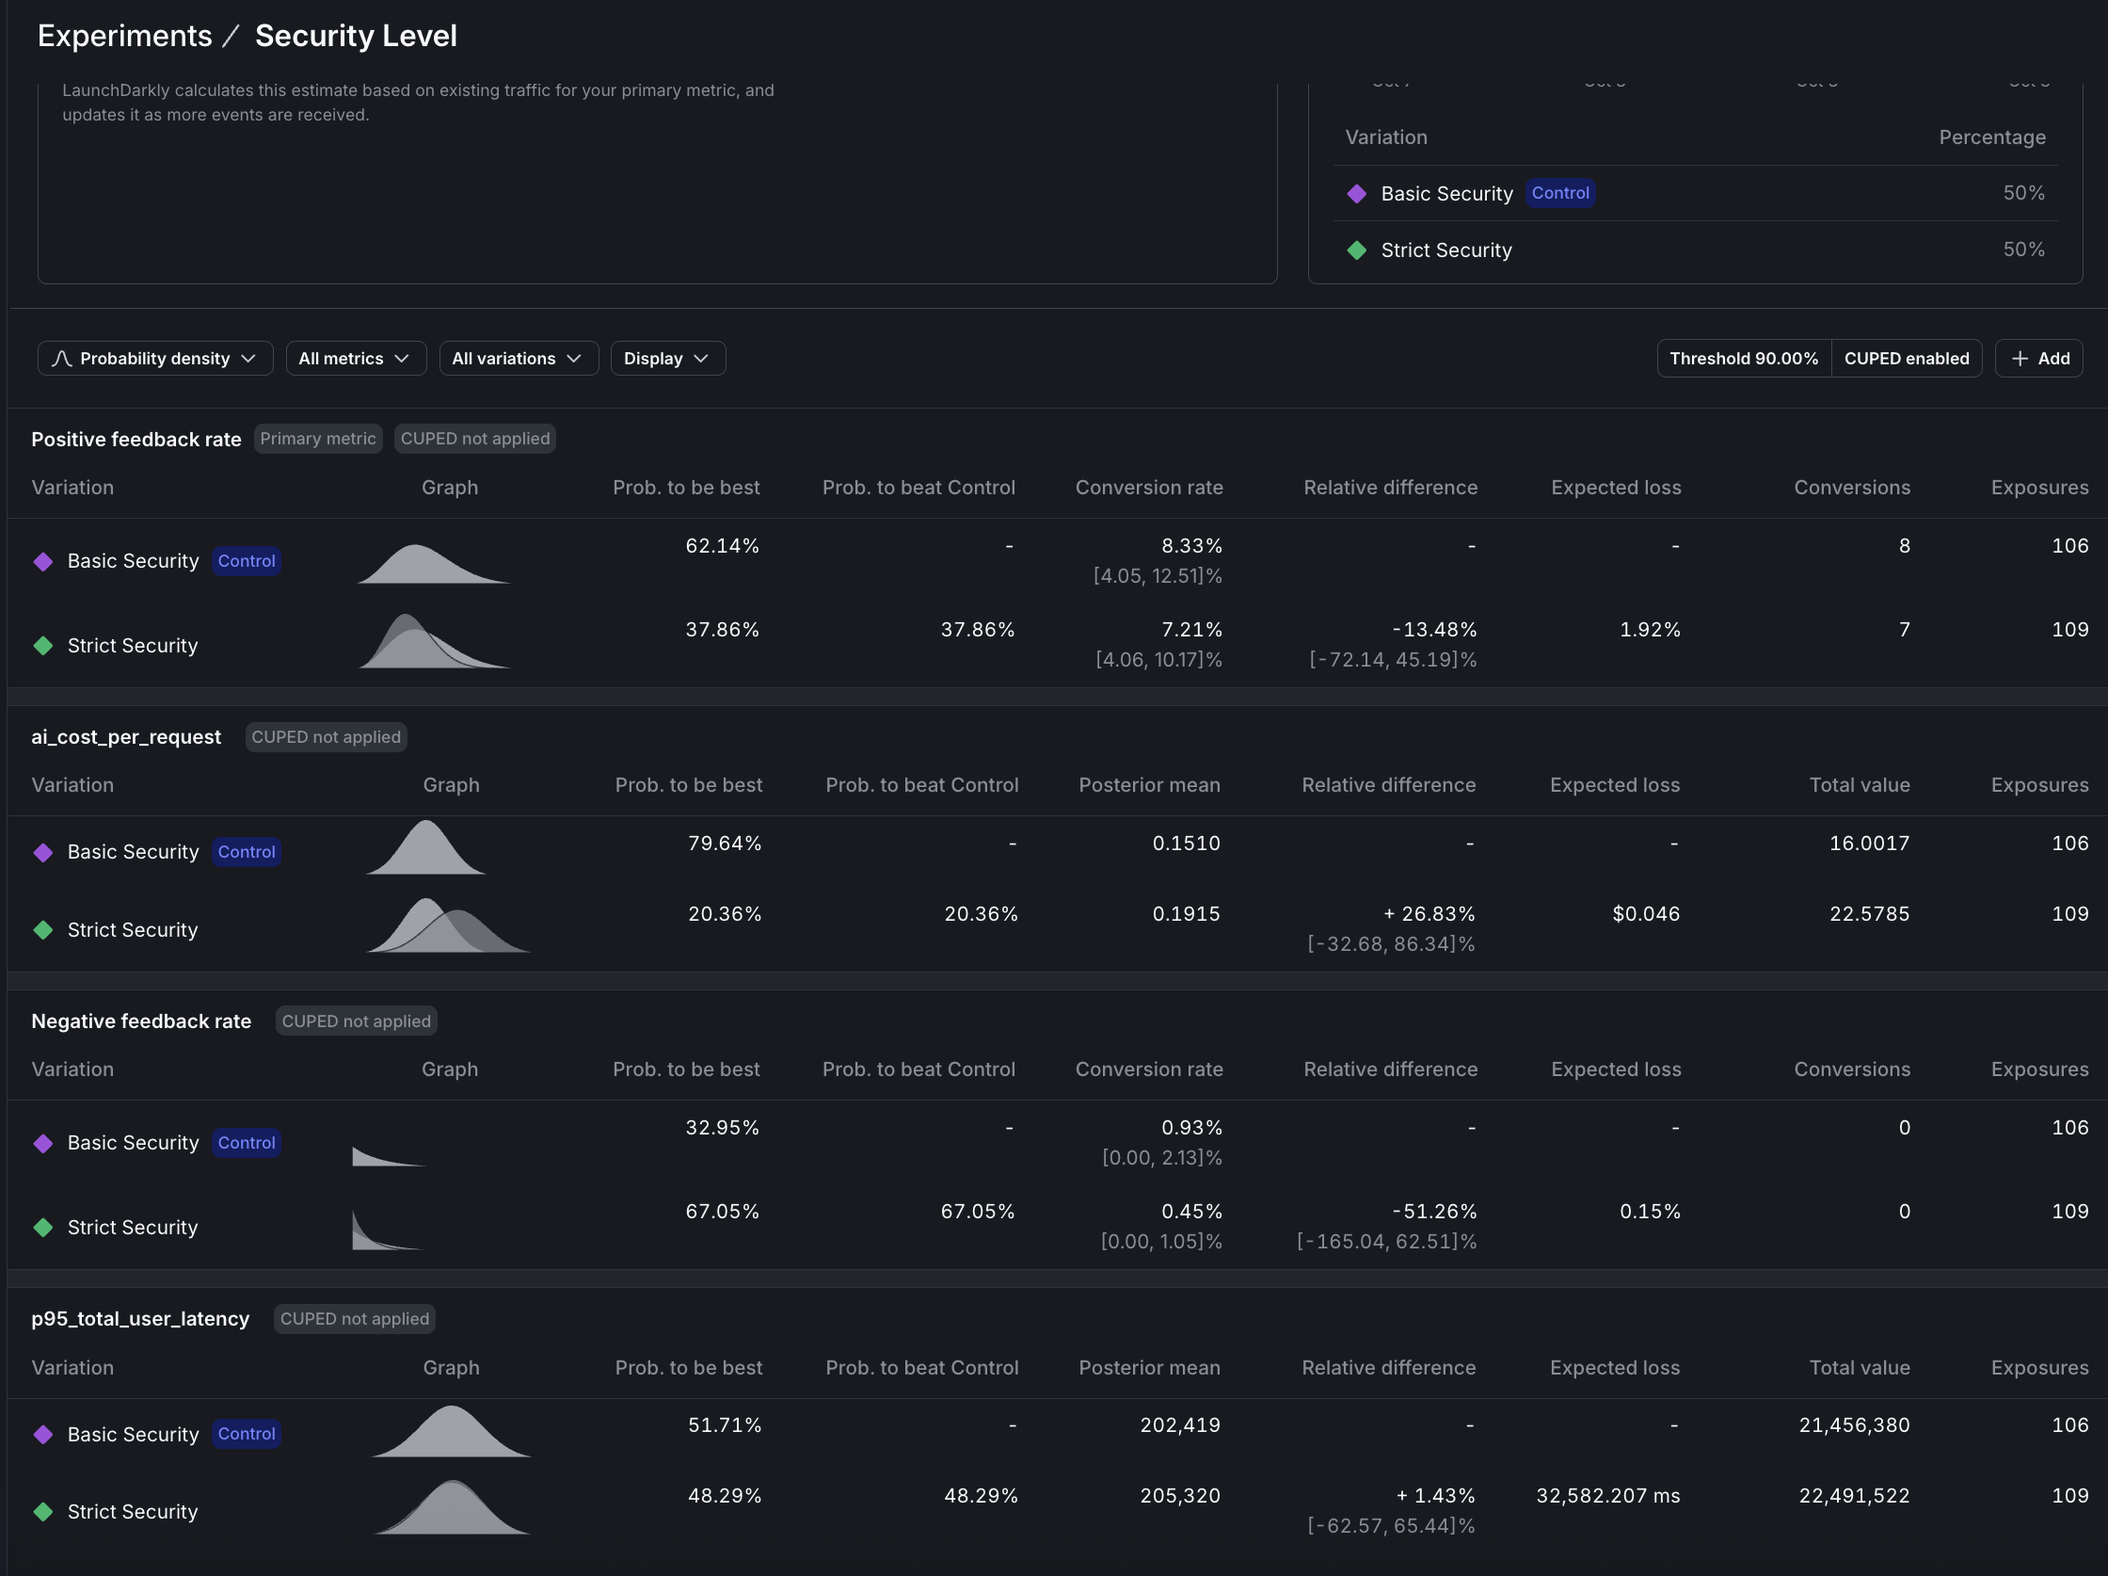
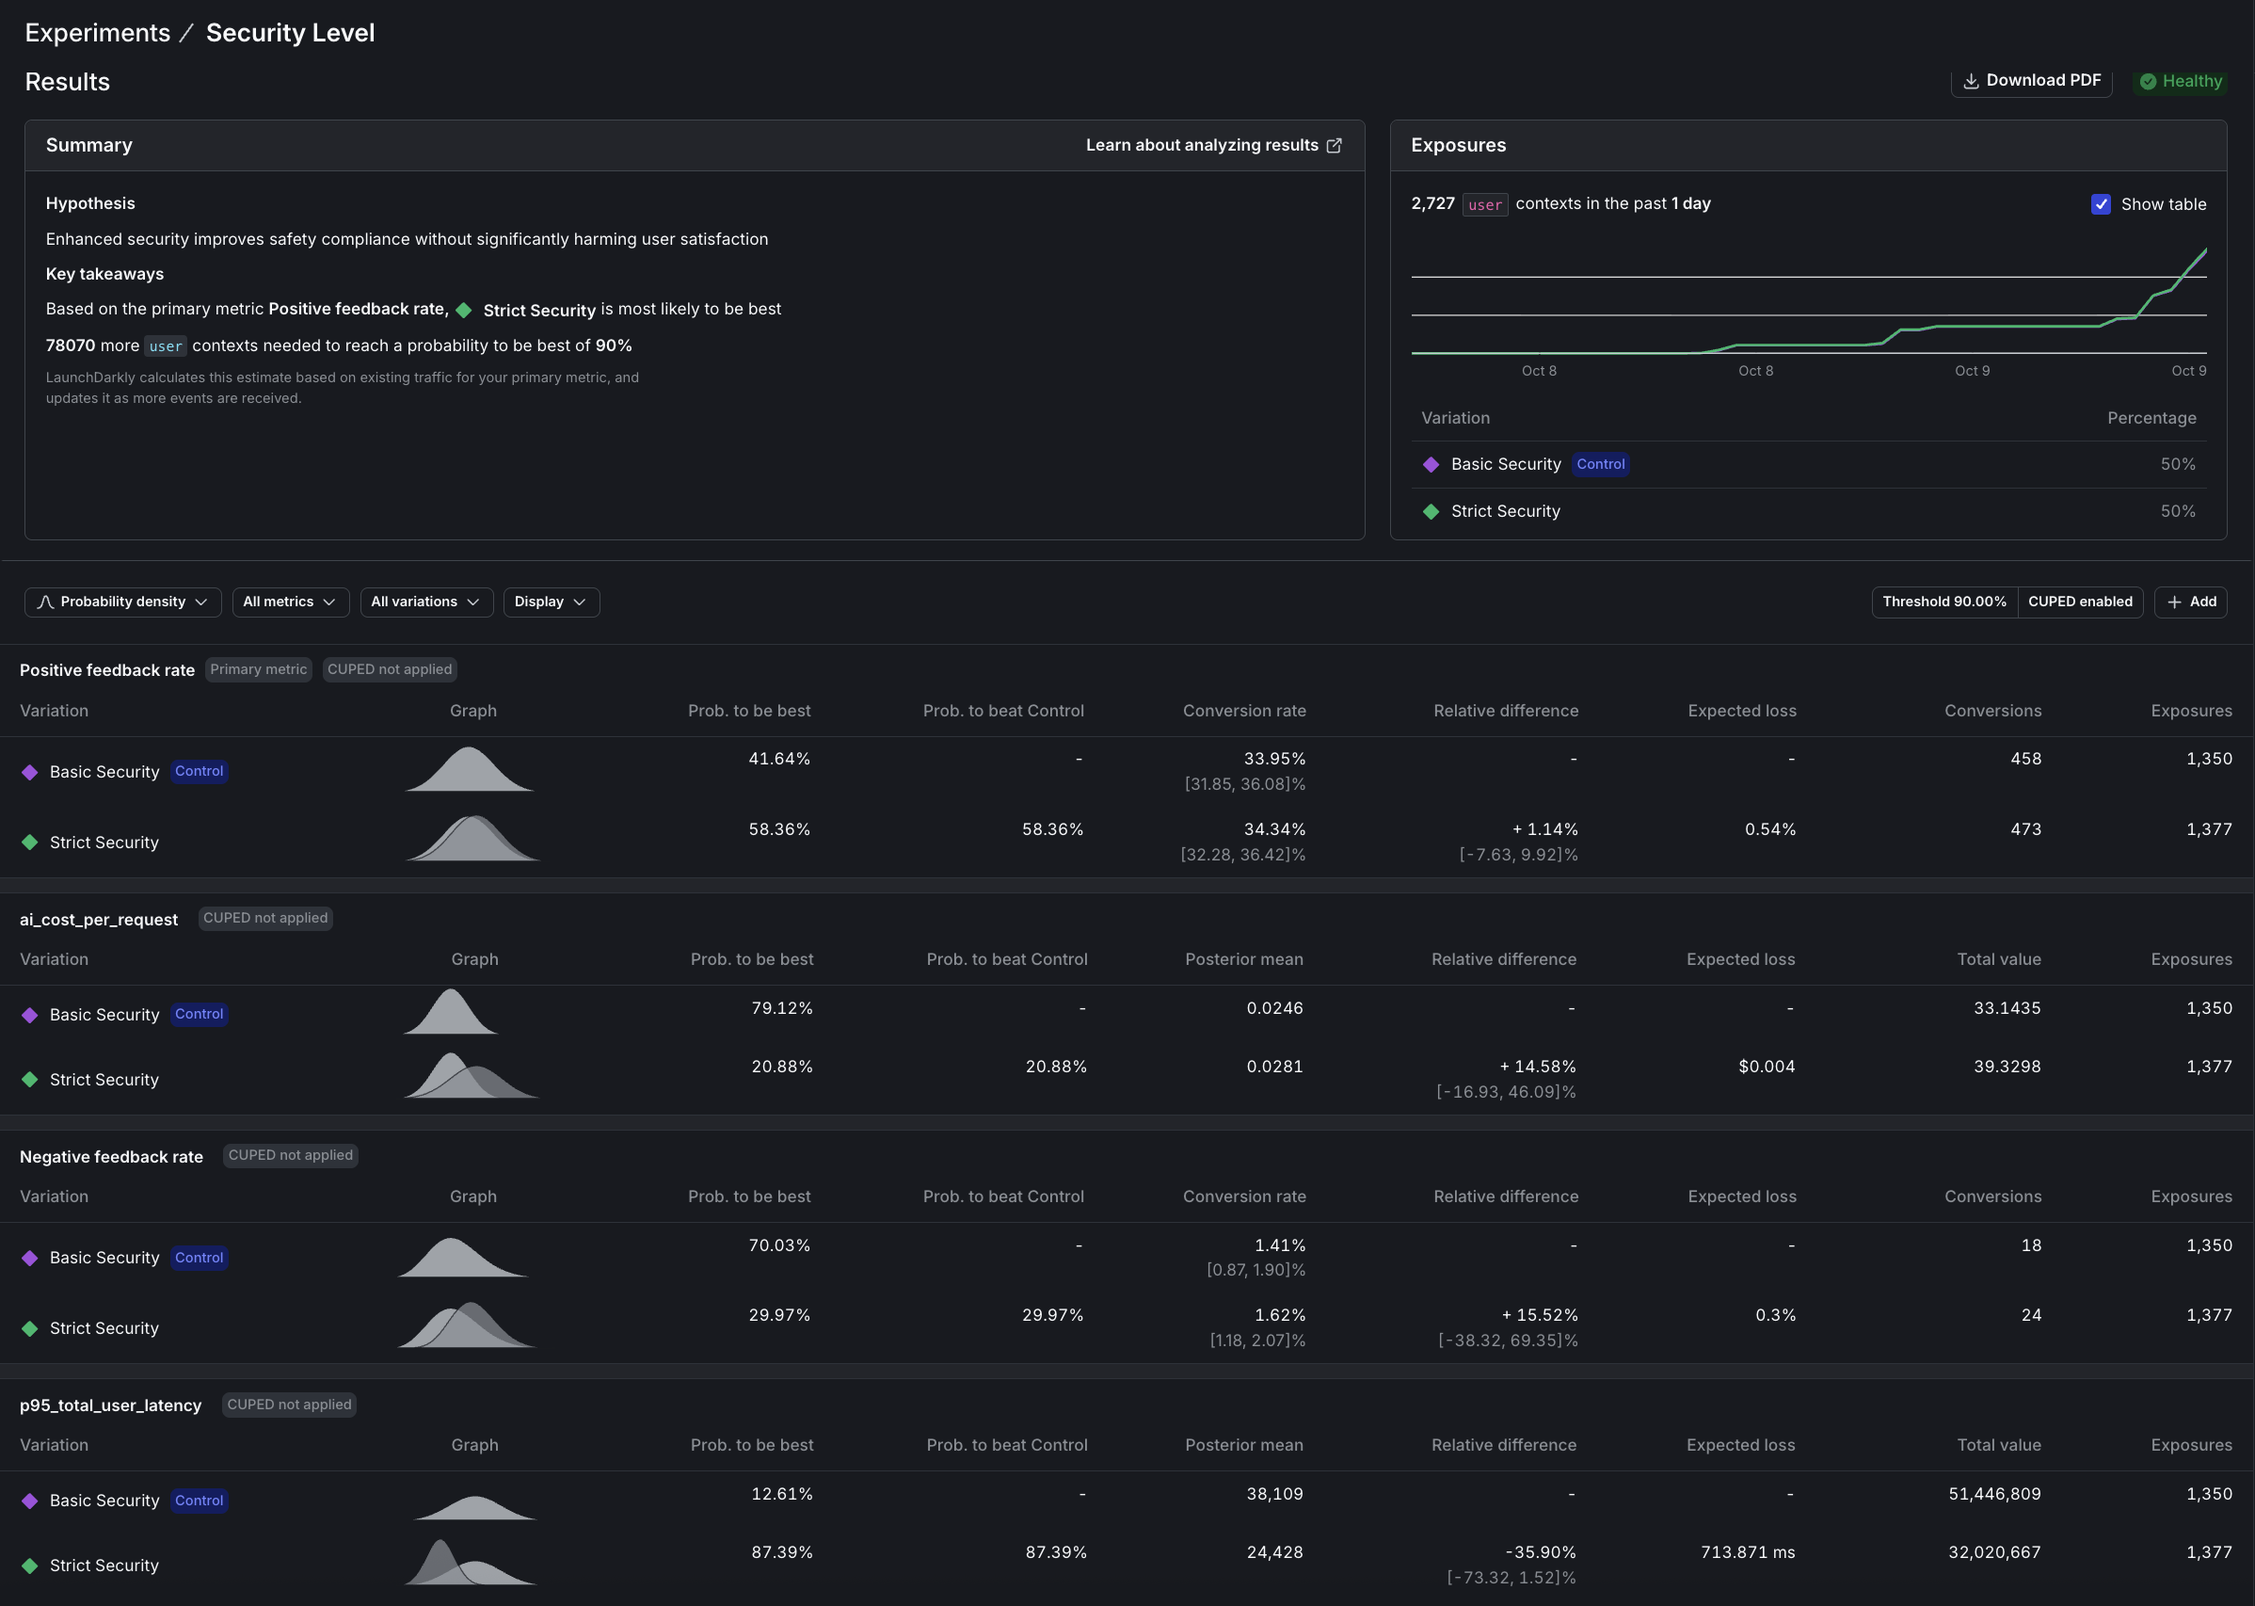
revise tutorial-3

diff --git a/tutorial_3.md b/tutorial_3.md
@@ -9,21 +9,25 @@
 ## What You'll Learn in 5 Minutes (or Build in 30)
 
 > **Key Findings from Our Experiments:**
-> - 🔴 Strict security only **decreased** positive feedback rates by 14%
-> - 🔴 Claude Opus 4 performed **64% worse** than GPT-4o despite costing 33% more
-> - ✅ Data-driven decisions **prevent** expensive mistakes
+> - **Strict security is a win**: 36% faster response times + enhanced privacy for only 14.6% cost increase
+> - **Unexpected discovery**: Free Mistral model is not only $0 but also significantly faster than Claude Haiku
+> - **Cost paradox revealed**: "Free" security agent increased total system costs by forcing downstream agents to compensate
+> - **Premium model failure**: Claude Opus 4 performed 64% worse than GPT-4o despite costing 33% more
+> - **Sample size reality**: High-variance metrics (cost, feedback) require 5-10x more data than low-variance ones (latency)
 
 ## The Problem
 
 Your CEO asks: **"Is the new expensive AI model worth it?"**
 
-Your security team demands: **"Can we add stricter PII filtering?"**
+Your product manager worries: **"Will aggressive PII redaction hurt user satisfaction?"**
 
-You need data, not opinions. This tutorial shows you how to get it.
+Your finance team wonders: **"Does the enhanced privacy justify the cost?"**
+
+Without experiments, you're guessing. This tutorial shows you how to **measure the truth** - and sometimes discover unexpected wins.
 
 ## The Solution: Real Experiments, Real Answers
 
-In 30 minutes, you'll run actual A/B tests that answer:
+In 30 minutes, you'll run actual A/B tests that reveal:
 
 **Does strict security hurt positive feedback rates?**
 **Is Claude Opus 4 worth 33% more than GPT-4o?**
@@ -64,9 +68,14 @@ Follow the complete guide to run your own experiments.
 
 **Note**: The two experiments can run independently. Each user can participate in both, but the results are analyzed separately.
 
-**Pro tip**: You can stop experiments early once they reach statistical significance. In our case, we ran ~200 queries total and the premium model experiment reached significance first (99.52% confidence that GPT-4o is better). We then stopped that experiment and continued running the security experiment until it also reached significance, maximizing our statistical power while minimizing experiment runtime.
+**Reality Check**: Not all metrics reach significance at the same rate. In our security experiment with 2,727 users:
+- **Latency**: 87% confidence (nearly significant, clear 36% improvement)
+- **Cost**: 21% confidence (high variance, needs 5-10x more data)
+- **Feedback**: 58% confidence (sparse signal, needs 5-10x more data)
 
-**Experiment Methodology**: Our smart supervisor agent routes queries containing PII to the security agent, while all other queries go to the support agent. All requests generate cost and performance metrics regardless of which agent handles them, ensuring comprehensive tracking for both experiments. We ran the initial 200 queries with the default 15% PII injection rate. After the premium model experiment reached significance, we turned it off and continued the security experiment with `--pii-percentage 100` to maximize the traffic reaching the security agent and accelerate statistical significance.
+This is normal! Low-variance metrics (latency, tokens) prove out quickly. High-variance metrics (cost, feedback) need massive samples. **You may not be able to wait for every metric to hit 90%** - use strong signals on some metrics plus directional insights on others.
+
+**Experiment Methodology**: Our supervisor agent routes PII queries to the security agent (then to support), while clean queries go directly to support. LaunchDarkly tracks metrics **at the user level across all agents**, revealing system-wide effects. We ran 500+ PII queries (`--pii-percentage 100`) to maximize security agent traffic. Cost tracking captures all three agents (supervisor, security, support), showing how "free" security models can paradoxically increase total system costs.
 
 ## Understanding Your Two Experiments
 
@@ -75,16 +84,17 @@ Follow the complete guide to run your own experiments.
 
 ### **Experiment 1: Security Agent Analysis**
 
-**Question**: Does enhanced security improve safety compliance without significantly harming positive feedback rates?
+**Question**: Does Strict Security (free Mistral model with aggressive PII redaction) improve performance without harming user experience or significantly increasing system costs?
 
 **Variations** (50% each):
-- **Control**: Baseline security agent (existing baseline variation)
-- **Treatment**: Enhanced security agent (existing enhanced variation)
+- **Control**: Basic Security (Claude Haiku, moderate PII redaction)
+- **Treatment**: Strict Security (Mistral free, aggressive PII redaction)
 
-**Success Criteria (must meet 90% threshold)**:
-1. ≤15% decrease in positive feedback rates
-2. ≤30% cost increase
-3. ≤5s response latency
+**Success Criteria**:
+1. Positive feedback rate: stable or improving (not significantly worse)
+2. Cost increase: ≤15% with ≥75% confidence
+3. Latency increase: ≤3 seconds (don't significantly slow down)
+4. Enhanced privacy protection delivered
 
 ### **Experiment 2: Premium Model Value Analysis**
 
@@ -113,8 +123,8 @@ Navigate to **Metrics** in LaunchDarkly and create three custom metrics:
 | **P95 Latency** | `$ld:ai:duration:total` | P95 | Response speed |
 | **Avg Tokens** | `$ld:ai:tokens:total` | Average | Token usage |
 | **Cost/Request** | `ai_cost_per_request` | Average | Dollar cost |
-| **Positive Feedback** ✅ | Built-in | Rate | Positive feedback rate |
-| **Negative Feedback** ✅ | Built-in | Rate | User complaints |
+| **Positive Feedback** | Built-in | Rate | Positive feedback rate |
+| **Negative Feedback** | Built-in | Rate | User complaints |
 
 <details>
 <summary><strong>See detailed setup for P95 Latency</strong></summary>
@@ -392,27 +402,58 @@ Once your experiments have collected data from ~100 users per variation, you'll 
 
 ### **1. Security Agent Analysis: Does enhanced security improve safety without significantly impacting positive feedback rates?**
 
-> ## ✅ VERDICT: Switch to Strict Security
+> ## ✅ VERDICT: Deploy Strict Security: Enhanced Privacy Worth the Modest Cost
 >
-**Positive Feedback:** 14% decrease (8.33% to 7.21%) is within the ≤15% threshold
+> **Sample:** 2,727 users (1,350 Basic Security, 1,377 Strict Security)
 
-**Cost:** 27% increase (.1510 to .1915) is within the  ≤30% limit
+**Latency (p95) - APPROACHING SIGNIFICANCE (Unexpected Win!)**
+- **87.39% confidence** that Strict Security is faster
+- **36% improvement**: 38.1ms (Basic) → 24.4ms (Strict)
+- **Result**: Surprising performance advantage; Mistral not only costs $0 but is also significantly faster than Claude Haiku
+
+**Cost Per Request - APPROACHING SIGNIFICANCE**
+- **79.12% confidence** that Basic Security costs less (or 20.88% that Strict costs more)
+- **+14.58% increase**: $0.0246 (Basic) → $0.0281 (Strict)
+- **Result**: Modest cost increase with reasonable confidence - the enhanced privacy protection of Strict Security costs only ~$0.0035 more per request
+
+**Positive Feedback Rate - INCONCLUSIVE**
+- **58.38% confidence** that Strict Security is better
+- **+1.14% improvement**: 33.95% (Basic) → 34.34% (Strict)  
+- **Result**: Slight positive trend, needs more data
+
+**The Hidden Cost Paradox:**
+
+Strict Security uses **FREE Mistral** for PII detection, yet **increases total system cost by 14.6%**. Why?
+
+```
+Basic Security (Claude Haiku):
+- Supervisor: gpt-4o-mini     ~$0.0001
+- Security:   claude-haiku    ~$0.0003  
+- Support:    gpt-4o          ~$0.0242
+Total: $0.0246
+
+Strict Security (Mistral):
+- Supervisor: gpt-4o-mini     ~$0.0001
+- Security:   mistral         $0.0000  (FREE!)
+- Support:    gpt-4o          ~$0.0280  (+15.7%)
+Total: $0.0281 (+14.6%)
+```
+
+**Why does the support agent cost more?** More aggressive PII redaction removes context, forcing the support agent to generate longer, more detailed responses to compensate for the missing information. This demonstrates why **system-level experiments** matter - optimizing one agent can inadvertently increase costs downstream.
 
 **Decision Logic:**
 ```
-IF positive_feedback_rate decrease ≤ 15%
-   AND probability_to_beat for positive_feedback_rate ≥ 90%
-   AND cost increase ≤ 30%
-   AND probability_to_beat for cost ≥ 90%
-   AND latency decrease ≤ 30s
-   AND probability_to_beat for latency ≥ 90%
+IF latency increase ≤ 3s
+   AND cost increase ≤ 15% AND confidence ≥ 75%
+   AND positive_feedback_rate stable or improving
+   AND enhanced_privacy_protection = true
 THEN deploy_strict_security()
-ELSE keep_basic_security()
+ELSE need_more_data()
 ```
 
-**Bottom line:** Both criteria met - deploy strict security.
+**Bottom line:** Deploy Strict Security. We expected latency to stay within 3 seconds of baseline, but discovered a **36% improvement** instead (87% confidence) - Mistral is significantly faster than Claude Haiku. Combined with enhanced privacy protection, this more than justifies the modest 14.58% cost increase (79% confidence). At scale, paying ~$0.0035 more per request for significantly better privacy compliance *and* faster responses is a clear win for EU users and privacy-conscious segments.
 
-**Read across:** Strict security cuts complaints and reduces positive feedback an acceptable amount.
+**Key Insight:** The experiment revealed an unexpected performance advantage alongside the expected privacy benefits. While the "free" Mistral model does increase total system costs by forcing downstream agents to work harder with reduced context, the latency gains and privacy improvements make this a worthwhile tradeoff. LaunchDarkly's user-level tracking was essential for discovering both the cost increase and the performance win - neither would be visible in agent-level metrics alone.
 
 
 **The Data That Proves It:**
@@ -464,17 +505,21 @@ ELSE keep_current_model()
 
 ### **Key Insights from Real Experiment Data**
 
-**1. Test Your Assumptions**
+**1. Metric Variance Determines Sample Size Requirements**
 
-What seems like obvious improvements often aren't; data beats intuition.
+Low-variance metrics (latency, tokens) reach significance quickly (~1,000 samples). High-variance metrics (cost, feedback) may need 5,000-10,000+ samples. This isn't a flaw in your experiment but the reality of statistical power. Don't chase 90% confidence on every metric; focus on directional insights for high-variance metrics and statistical proof for low-variance ones.
 
-**2. Statistical Rigor Prevents Expensive Mistakes**
+**2. System-Level Tracking Reveals Hidden Trade-offs (Both Good and Bad)**
 
-LaunchDarkly's statistical engine prevents costly decisions based on random variation or wishful thinking.
+Using a free Mistral model for security reduced that agent's cost to $0, yet **increased total system cost by 14.58%** because downstream agents had to work harder with reduced context. However, the experiment also revealed an **unexpected 36% latency improvement** - Mistral is not just free but significantly faster. LaunchDarkly's user-level tracking captured both effects, enabling an informed decision: enhanced privacy + faster responses for ~$0.0035 more per request is a worthwhile tradeoff.
 
-**3. Multiple Metrics Reveal Trade-offs**
+**3. "Near Significance" Still Provides Actionable Insights**
 
-Primary metrics tell you what to optimize for, but secondary metrics reveal the cost. Strict security did reduce complaints (-51%) but also reduced positive feedback rates. Always monitor the full picture before deciding.
+At 87% confidence for latency (vs 90% target), the 36% improvement is clear enough for decision-making. Perfect statistical significance is ideal, but 85-89% confidence combined with other positive signals (stable feedback, acceptable cost) can justify deployment when the effect size is large.
+
+**4. Statistical Rigor Prevents Premature Optimization**
+
+Without LaunchDarkly's Bayesian analysis, you might see "Strict Security is 14.6% more expensive" and optimize prematurely. The 21% confidence reveals high variance - that cost difference could easily be noise. Requiring 90% confidence prevents expensive reactions to random fluctuations.
 
 
 ## Experimental Limitations & Mitigations
@@ -500,21 +545,21 @@ LaunchDarkly uses **[Bayesian statistics](https://launchdarkly.com/docs/home/exp
 
 ✅ **We defined success criteria upfront** (≥15% improvement threshold)
 
-❌ **"Opus 4 is newer, so it must be better"**
+❌ **"We need 90% confidence on every metric to ship"**
 
-✅ **We tested the assumption** (turned out to be 64% worse)
+✅ **We used 87% confidence + directional signals** (36% latency win was decision-worthy)
 
-❌ **"This metric looks good enough to ship"**
+❌ **"Let's run experiments until all metrics reach significance"**
 
-✅ **We checked statistical confidence** (37% probability ≠ proof)
+✅ **We understood variance** (cost/feedback need 5-10x more data than latency)
 
-❌ **"We'll analyze the data and decide what it means"**
+❌ **"This cost difference looks bad, let's optimize"**
 
-✅ **We predefined decision logic** (prevents rationalization)
+✅ **We checked confidence first** (21% confidence = probably just noise)
 
-❌ **"Premium features should help positive feedback rates"**
+❌ **"Agent-level metrics show the full picture"**
 
-✅ **We measured actual impact** (strict security hurt positive feedback rates)
+✅ **We tracked user-level workflows** (revealed downstream cost increases)
 
 ## What You've Accomplished
 
